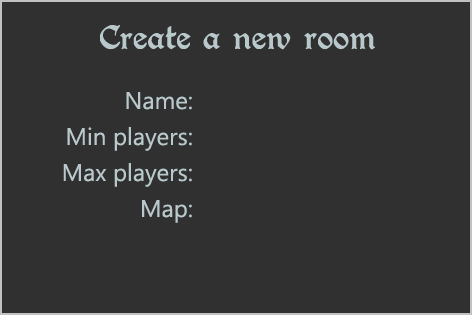
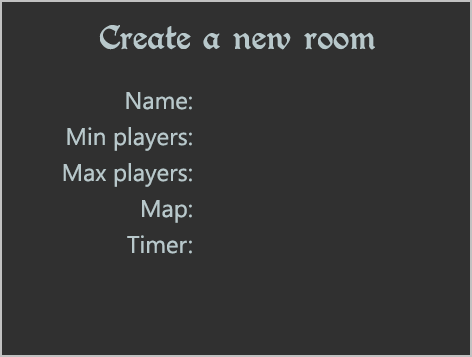
added missing things in lobby GUI

diff --git a/client/src/main/java/com/client/view/gui/MainMenu.java b/client/src/main/java/com/client/view/gui/MainMenu.java
@@ -12,6 +12,7 @@ import javafx.collections.ObservableList;
 import javafx.event.ActionEvent;
 import javafx.event.EventHandler;
 import javafx.fxml.FXML;
+import javafx.scene.Group;
 import javafx.scene.control.Button;
 import javafx.scene.control.ChoiceBox;
 import javafx.scene.control.Label;
@@ -34,6 +35,8 @@ public class MainMenu implements javafx.fxml.Initializable {
 	@FXML
 	private Label lblNickname;
 	@FXML
+	private Label lblTimer;
+	@FXML
 	private TextField txtNickname;
 	@FXML
 	private TextField txtPlayersInLobby;
@@ -51,6 +54,8 @@ public class MainMenu implements javafx.fxml.Initializable {
 	private ImageView formNewRoom;
 	@FXML
 	private TextField txtRoomName;
+	@FXML
+	private TextField txtTimer;
 	@FXML
 	private ChoiceBox<String> choiceMinPl;
 	private ObservableList<String> minList = FXCollections.observableArrayList("2","3","4","5","6","7","8");
@@ -78,6 +83,10 @@ public class MainMenu implements javafx.fxml.Initializable {
 	private Label lblMap;
 	@FXML
 	private ImageView roomMask;
+	@FXML
+	private Group groupRoom1, groupRoom2, groupRoom3, groupRoom4, groupRoom5, groupRoom6, groupRoom7, groupRoom8;
+	@FXML
+	private Label lblRoomName1, lblRoomName2, lblRoomName3, lblRoomName4, lblRoomName5, lblRoomName6, lblRoomName7, lblRoomName8, lblPlMin1, lblPlMin2, lblPlMin3, lblPlMin4, lblPlMin5, lblPlMin6, lblPlMin7, lblPlMin8, lblPlMax1, lblPlMax2, lblPlMax3, lblPlMax4, lblPlMax5, lblPlMax6, lblPlMax7, lblPlMax8, lblMap1, lblMap2, lblMap3, lblMap4, lblMap5, lblMap6, lblMap7, lblMap8, lblPlayers1, lblPlayers2, lblPlayers3, lblPlayers4, lblPlayers5, lblPlayers6, lblPlayers7, lblPlayers8, lblStatus1, lblStatus2, lblStatus3, lblStatus4, lblStatus5, lblStatus6, lblStatus7, lblStatus8;
 
 	@Override
 	public void initialize(URL location, ResourceBundle resources) {
@@ -371,6 +380,11 @@ public class MainMenu implements javafx.fxml.Initializable {
 		ft7.setToValue(1.0);
 		ft7.play();
 		
+		FadeTransition ft8 = new FadeTransition(Duration.millis(1000), txtTimer);
+		ft8.setFromValue(0.0);
+		ft8.setToValue(1.0);
+		ft8.play();
+		
 	}
 	
 	private void invertAnimateNewRoomForm() {
@@ -409,6 +423,11 @@ public class MainMenu implements javafx.fxml.Initializable {
 		ft7.setFromValue(1.0);
 		ft7.setToValue(0.0);
 		ft7.play();
+		
+		FadeTransition ft8 = new FadeTransition(Duration.millis(1000), txtTimer);
+		ft8.setFromValue(1.0);
+		ft8.setToValue(0.0);
+		ft8.play();
 		
 	}
 	
@@ -453,6 +472,11 @@ public class MainMenu implements javafx.fxml.Initializable {
 		ft7.setFromValue(0.0);
 		ft7.setToValue(1.0);
 		ft7.play();
+		
+		FadeTransition ft8 = new FadeTransition(Duration.millis(1000), lblTimer);
+		ft8.setFromValue(0.0);
+		ft8.setToValue(1.0);
+		ft8.play();
 	}
 	
 	
@@ -497,6 +521,11 @@ public void invertAnimateRoom(){
 		ft7.setFromValue(1.0);
 		ft7.setToValue(0.0);
 		ft7.play();
+		
+		FadeTransition ft8 = new FadeTransition(Duration.millis(1000), lblTimer);
+		ft8.setFromValue(1.0);
+		ft8.setToValue(0.0);
+		ft8.play();
 	}
 
 }
